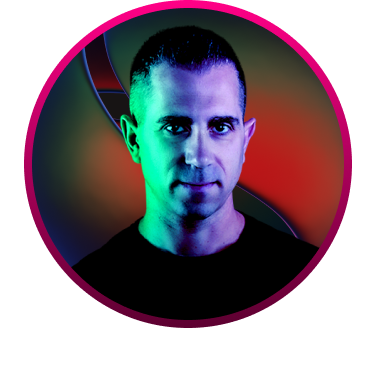
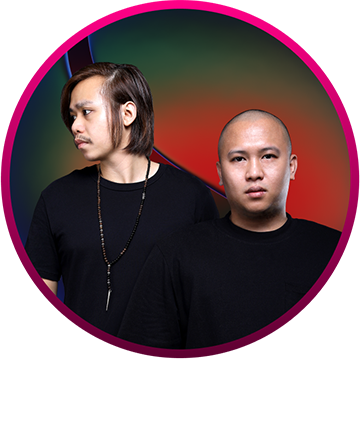
new lineup added

diff --git a/components/PFA/LineUp.jsx b/components/PFA/LineUp.jsx
@@ -113,9 +113,10 @@ const LineUp = () => {
       <img src="./PFA/Lineup/group_lineup.png" alt="img_1"/>
       <img src="./PFA/Lineup/bottom_label.png" alt="img_1"/>
       </div>
-      <div className="p-6"> 
-      <img src="./PFA/Lineup/tba_lineup.png" classsName="object-contain pt-6 pb-6 pr-6" alt="img_1"/>
+      <div className=""> 
+      <img src="./PFA/Lineup/img_3.png" classsName="object-contain pb-6" alt="img_1"/>
       </div>
+    
 
       </div>
     </div>
@@ -128,12 +129,12 @@ const LineUp = () => {
         </div>
       
       </div>
-      <div className="self-center flex  items-center gap-10  pt-3">
-      <div className="w-[45%] ml-5"> 
+      <div className="self-center flex  items-center gap-4  pt-3">
+      <div className="w-[45%] pl-5"> 
       <img src="./PFA/Lineup/img_11_mob_2.png" classsName="object-  " alt="img_1"/>
       </div>
-      <div className=" w-1/2"> 
-      <img src="./PFA/Lineup/tba_lineup_mob.png" classsName="object-contain " alt="img_1"/>
+      <div className=" w-1/2 pr-3"> 
+      <img src="./PFA/Lineup/img_3_mob.png" classsName="object-contain " alt="img_1"/>
       </div>
       </div>
       <img src="./PFA/Lineup/bottom_label.png" className="min-w-[100vw]" alt="img_1"/>
